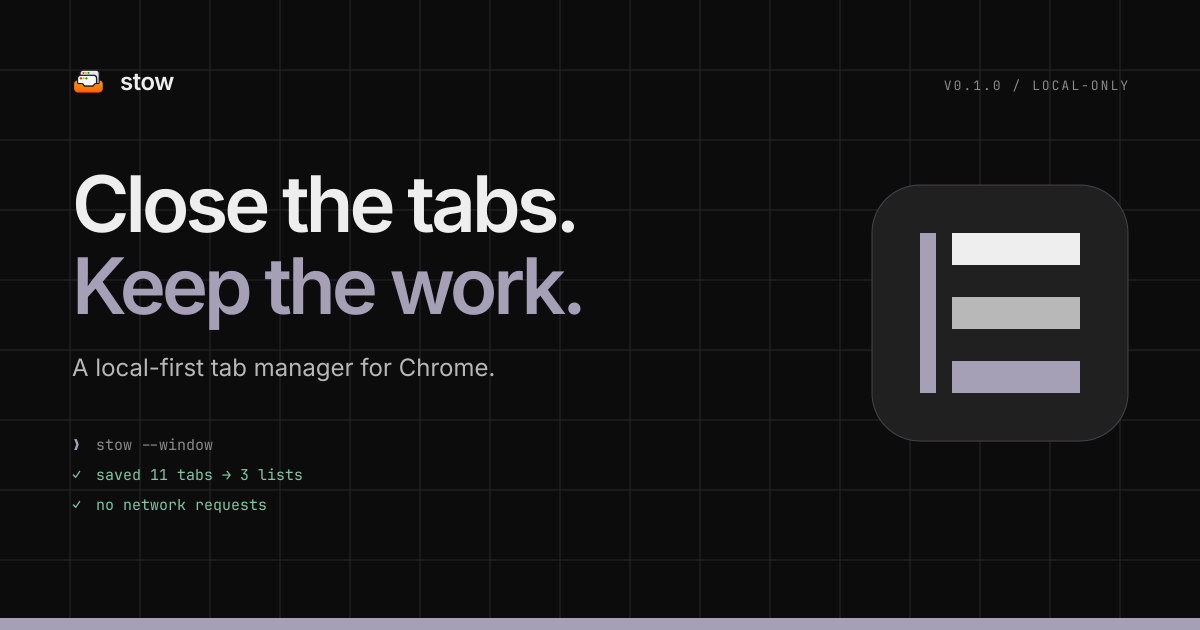
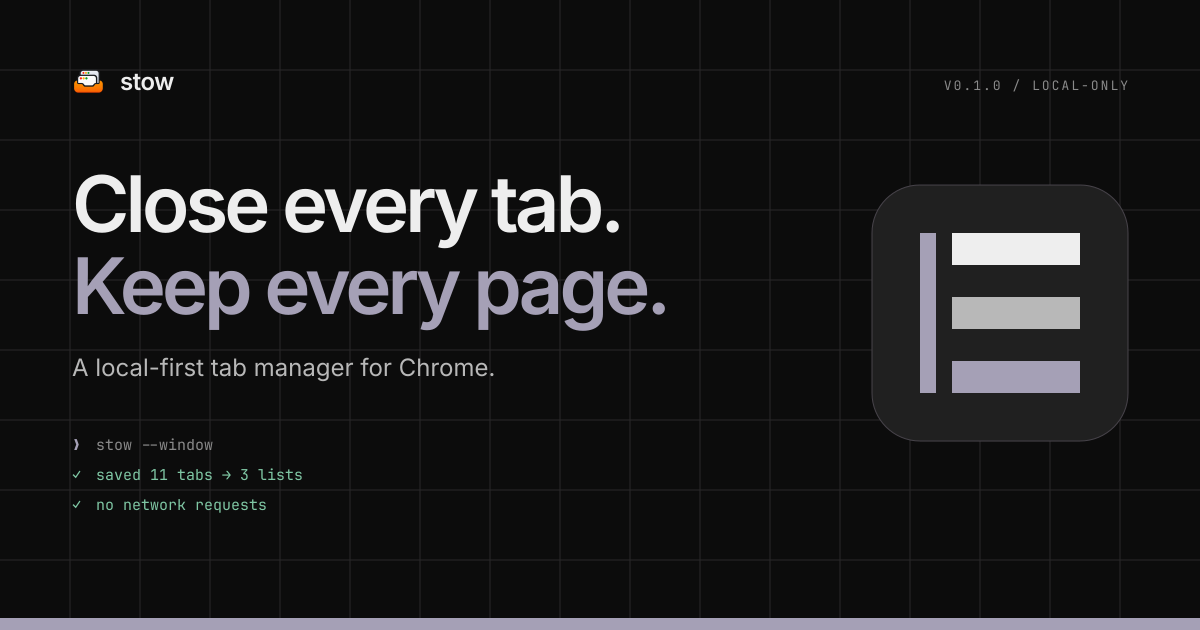
Lead the landing page with the problem, not the demo
The hero opened on "Fifteen tabs. Three lists. One click.", which describes the
animation rather than a reason to install, and the page had no statement of
what changes in the browser. PauseTab, the closest competitor, opens on the
pain, then the benefits, then the mechanics; Stow did none of that.

The H1 is now "Close every tab. Keep every page." -- concrete on both halves,
because "every" removes the fear of losing a tab and "page" names what you
keep. The lede names the situation ("Forty tabs open, three you're actually
using"), then the category, then the mechanic.

Add a benefits band between the demo and how-it-works: only the tabs you're
using, a lighter browser (Stow closes the tab rather than hiding it), and
nothing lost (every tab is saved with its title, URL, and favicon first). It is
a definition list, so no h3 lands before the first h2. How-it-works, features,
and the questions section say the outcome instead of the interaction.

Leave the title, description, and JSON-LD alone: docs/SEO.md documents why they
carry the query language and not the slogan. Re-render the social card with the
new line and match its alt text, and teach the landing checker the new H1.

Changed region(s): [[0.2158, 0.2714, 0.555, 0.5429]]

diff --git a/landing/index.html b/landing/index.html
@@ -18,16 +18,16 @@
     <link rel="icon" href="assets/favicon.png" sizes="32x32" type="image/png" />
     <link rel="apple-touch-icon" href="assets/icon.png" sizes="128x128" />
     <link rel="preload" href="assets/inter-var.woff2" as="font" type="font/woff2" crossorigin />
-    <link rel="stylesheet" href="styles.css?v=9" />
+    <link rel="stylesheet" href="styles.css?v=10" />
     <link rel="stylesheet" href="hero-demo.css?v=3" />
 
     <meta property="og:type" content="website" />
     <meta property="og:site_name" content="Stow" />
     <meta property="og:url" content="https://code-sharad.github.io/stow/" />
-    <meta property="og:title" content="Stow — Close the tabs. Keep the work." />
+    <meta property="og:title" content="Stow — Close every tab. Keep every page." />
     <meta
       property="og:description"
-      content="A local-first tab manager for Chrome. Save the window as a searchable list. No account, no cloud, no tracking."
+      content="Forty tabs open, three you're using. Save the window as a searchable list, close the tabs, and restore any page later."
     />
     <meta property="og:image" content="https://code-sharad.github.io/stow/assets/og.png" />
     <meta property="og:image:type" content="image/png" />
@@ -36,18 +36,18 @@
     <meta property="og:locale" content="en_US" />
     <meta
       property="og:image:alt"
-      content="Stow — Close the tabs. Keep the work. A local-first tab manager for Chrome."
+      content="Stow — Close every tab. Keep every page. A local-first tab manager for Chrome."
     />
     <meta name="twitter:card" content="summary_large_image" />
-    <meta name="twitter:title" content="Stow — Close the tabs. Keep the work." />
+    <meta name="twitter:title" content="Stow — Close every tab. Keep every page." />
     <meta
       name="twitter:description"
-      content="A local-first tab manager for Chrome. Save the window as a searchable list. No account, no cloud, no tracking."
+      content="Forty tabs open, three you're using. Save the window as a searchable list, close the tabs, and restore any page later."
     />
     <meta name="twitter:image" content="https://code-sharad.github.io/stow/assets/og.png" />
     <meta
       name="twitter:image:alt"
-      content="Stow — Close the tabs. Keep the work. A local-first tab manager for Chrome."
+      content="Stow — Close every tab. Keep every page. A local-first tab manager for Chrome."
     />
 
     <script type="application/ld+json">
@@ -199,11 +199,11 @@
       <section class="hero" id="top" aria-labelledby="hero-title">
         <div class="hero-copy reveal">
           <p class="eyebrow">A local-first tab manager</p>
-          <h1 id="hero-title">Fifteen tabs.<br /> Three lists. One click.</h1>
+          <h1 id="hero-title">Close every tab.<br />Keep every page.</h1>
           <p class="hero-lede">
-            Stow is a browser extension that turns a crowded window of tabs into grouped,
-            searchable lists — then restores any of them. Watch fifteen tabs become three lists, a
-            search find the Docs, and the tabs come back.
+            Forty tabs open, three you're actually using. Stow is a browser extension that saves
+            the whole window as one searchable list, closes the tabs, and restores any of them
+            later — one page, a selection, or all of them.
           </p>
           <div class="hero-actions">
             <a
@@ -256,13 +256,41 @@
         </figure>
       </section>
 
+      <section
+        class="section section--tight benefits-band"
+        aria-label="What changes when you stow a window"
+      >
+        <dl class="benefits">
+          <div class="benefit reveal">
+            <dt>Only the tabs you're using.</dt>
+            <dd>
+              The window you work in stops competing with the tabs you saved to read later.
+            </dd>
+          </div>
+          <div class="benefit reveal">
+            <dt>A lighter browser.</dt>
+            <dd>
+              Stow closes the tab, not just hides it, so the pages you put away stop using
+              memory.
+            </dd>
+          </div>
+          <div class="benefit reveal">
+            <dt>Nothing lost.</dt>
+            <dd>
+              Every tab is saved with its title, URL, and favicon before it closes. Bring it back
+              in a click.
+            </dd>
+          </div>
+        </dl>
+      </section>
+
       <section class="section" id="how" aria-labelledby="how-title">
         <div class="section-head reveal">
           <p class="eyebrow">How it works</p>
           <h2 id="how-title">A calmer browser in three steps.</h2>
           <p class="section-lede">
-            Stow saves every tab in the window as one list you can search. Find any of them later,
-            then restore one tab or the whole list.
+            Put the window away, search for the page when you need it, and never scroll a tab
+            strip looking for something you saved.
           </p>
         </div>
 
@@ -395,8 +423,8 @@
           <p class="eyebrow">Features</p>
           <h2 id="features-title">Everything you need to put tabs away—and find them again.</h2>
           <p class="section-lede">
-            A small set of tools for the whole life of a tab in Chrome and Firefox: capture it,
-            organize it, search it, and put it back.
+            Six tools for the whole life of a tab in Chrome and Firefox: capture it, organize it,
+            search it, and put it back. All of it stays on your machine.
           </p>
         </div>
 
@@ -488,9 +516,9 @@
       <section class="section" id="questions" aria-labelledby="questions-title">
         <div class="section-head reveal">
           <p class="eyebrow">Questions</p>
-          <h2 id="questions-title">Questions, answered.</h2>
+          <h2 id="questions-title">Before you move your tabs.</h2>
           <p class="section-lede">
-            Short answers to what people ask before they move forty tabs into Stow.
+            What people ask before trusting an extension with a full window of open pages.
           </p>
         </div>
 

diff --git a/landing/styles.css b/landing/styles.css
@@ -623,6 +623,46 @@ h1 {
   object-position: top left;
 }
 
+/* ---------- benefits ---------- */
+
+.section--tight {
+  padding-block: clamp(40px, 5vw, 56px);
+}
+
+.benefits {
+  display: grid;
+  grid-template-columns: repeat(3, minmax(0, 1fr));
+  margin: 0;
+}
+
+.benefit {
+  padding-right: 32px;
+}
+
+.benefit + .benefit {
+  padding-left: 32px;
+  border-left: 1px solid var(--border);
+}
+
+.benefit:last-child {
+  padding-right: 0;
+}
+
+.benefit dt {
+  font-size: 16px;
+  font-weight: 600;
+  line-height: 1.25;
+  letter-spacing: -0.02em;
+}
+
+.benefit dd {
+  max-width: 32ch;
+  margin: 7px 0 0;
+  color: var(--ink-2);
+  font-size: 13px;
+  line-height: 1.6;
+}
+
 /* ---------- how it works ---------- */
 
 .steps {
@@ -1071,6 +1111,28 @@ h1 {
 
   .hero-shot {
     margin-top: 32px;
+  }
+
+  .benefits {
+    grid-template-columns: 1fr;
+  }
+
+  .benefit {
+    padding: 20px 0;
+  }
+
+  .benefit + .benefit {
+    padding-left: 0;
+    border-left: 0;
+    border-top: 1px solid var(--border);
+  }
+
+  .benefit:first-child {
+    padding-top: 0;
+  }
+
+  .benefit:last-child {
+    padding-bottom: 0;
   }
 
   .section {

diff --git a/docs/LANDING.md b/docs/LANDING.md
@@ -19,9 +19,11 @@ One page, one decision: add Stow from the browser's extension store.
 
 ```text
 header: stow · how it works · features · privacy · [Add to Chrome / Firefox]
-hero:   Fifteen tabs. / Three lists. One click.
+hero:   Close every tab. / Keep every page.
         centered copy · store CTA + view source · trust line · compatibility
         full-width live 18s hero demo (real UI, no video, no labels)
+benefits: three columns — only the tabs you're using / a lighter browser / nothing lost
+        (outcome strip between the demo and how-it-works)
 how:    three rows — Stow / Find / Restore, each with a real UI capture
         A calmer browser in three steps.
 features: six-cell grid — Capture / Search / Organize / Restore / Import-export / Keyboard
@@ -53,18 +55,37 @@ Keep labels lowercase and prose in sentence case. Use **list**, not "stack", in 
 
 - Kicker: `A local-first tab manager` — a centered square badge above the H1 (hero only; no
   dash; section eyebrows keep their left-aligned orange dash).
-- H1: `Fifteen tabs.` / `Three lists. One click.`
-- Lede: `Stow is a browser extension that turns a crowded window of tabs into grouped,
-  searchable lists — then restores any of them. Watch fifteen tabs become three lists, a search
-  find the Docs, and the tabs come back.`
-- Why the lede names the product: the H1 is a slogan, so the first sentence after it has to say
-  what Stow is in the words people search with (browser extension, tabs, lists).
+- Title tag: `Stow — a local-first Chrome tab manager` — the keyword title stays; the H1 carries
+  the promise. Do not put the slogan back in the title (the SEO audit explains why).
+- H1: `Close every tab.` / `Keep every page.` — the promise, not the demo, and concrete on both
+  halves: "every" removes the fear of losing a tab, "page" names what you keep. The lede says how.
+  Both lines are 16 characters, so the centered hero stays balanced.
+- Lede: `Forty tabs open, three you're actually using. Stow is a browser extension that saves the
+  whole window as one searchable list, closes the tabs, and restores any of them later — one page,
+  a selection, or all of them.`
+- Why the lede opens on the pain: the visitor arrives with too many tabs, not with curiosity about
+  a browser extension. Name the situation first, then the product category, then the mechanic,
+  then the restore. Keep `browser extension` in the sentence — it is the query language the
+  title cannot hold.
 - Layout: centered copy above the full-width demo; no right-column illustration and no labels
   around the animation.
 - Primary: `Add to Chrome` / `Add to Firefox`
 - Secondary: `View source ↗`
 - Trust line: `No account · No cloud · No tracking`
 - Compatibility: `Chrome 120+ · Firefox 140+ · Works offline`
+
+### Benefits strip
+
+- Sits directly after the hero demo, before `how it works`: three outcome cells in one bordered
+  band, no heading (a definition list, so it adds no h3 before the first h2).
+- Cells:
+  1. `Only the tabs you're using.` — the working window stops competing with the tabs saved for
+     later.
+  2. `A lighter browser.` — Stow closes the tab rather than hiding it, so saved pages stop using
+     memory.
+  3. `Nothing lost.` — every tab is saved with title, URL, and favicon before it closes.
+- Copy rule: benefits describe what changes for the person, features describe what the extension
+  does. Do not repeat the three steps here.
 
 ### Hero demo
 

diff --git a/docs/SEO.md b/docs/SEO.md
@@ -36,7 +36,7 @@ Severity is about expected impact on organic search, not code tidiness. Everythi
 | --- | --- | --- |
 | The `<title>` carried no category or browser words (`Stow — Close the tabs. Keep the work.`), so it matched no query a searcher types. | Read from the live page; every ranking competitor puts category + browser in the title. | Title is now `Stow — a local-first Chrome tab manager` (39 chars). |
 | The description was a slogan with no query language. | Live `<meta name="description">`. | Rewritten to 155 chars naming the category, the job, and the local-first promise. |
-| The page never answered the questions it competes on: 721 words, no "save all tabs", no Chrome tab-group comparison, no import path for OneTab users. | Word and term counts over the rendered text. | New Questions section (`#questions`, six Q&As, 250 words) between features and privacy; hero lede now names the product ("a browser extension that turns a crowded window of tabs into grouped, searchable lists"). |
+| The page never answered the questions it competes on: 721 words, no "save all tabs", no Chrome tab-group comparison, no import path for OneTab users. | Word and term counts over the rendered text. | New Questions section (`#questions`, six Q&As, 250 words) between features and privacy; hero lede now names the product ("Stow is a browser extension that saves the whole window as one searchable list"). |
 | `demo.html` was served as a public, indexable HTML page (200, `text/html`), and `HERO-DEMO.md` as `text/markdown`. Both are dev artifacts. | `curl -I` on the live URLs. | `demo.html` is `noindex, follow`; `pages.yml` stages the artifact with `rsync --exclude demo.html --exclude HERO-DEMO.md`, so neither ships. |
 
 ### High — fixed

diff --git a/docs/CHANGELOG.md b/docs/CHANGELOG.md
@@ -4,6 +4,12 @@
 
 ### Changed
 
+- Rewrote the landing page copy to lead with the problem and the outcome instead of the demo's
+  mechanics: the H1 is now `Close every tab.` / `Keep every page.`, the lede opens on `Forty tabs
+  open, three you're actually using`, and a new three-cell benefits band (only the tabs you're
+  using / a lighter browser / nothing lost) sits between the hero demo and how-it-works. The
+  keyword title, meta description, and JSON-LD are unchanged. `scripts/check-landing.mjs` now
+  asserts the new H1.
 - Replaced the icon mark with the new master (`assets/icon.png`): a white, dark-outlined card
   holding the layered archive on a solid orange base, on a transparent surround. `pnpm icons` now
   trims the master to its ink and centres it in each square export, and it writes the two landing
